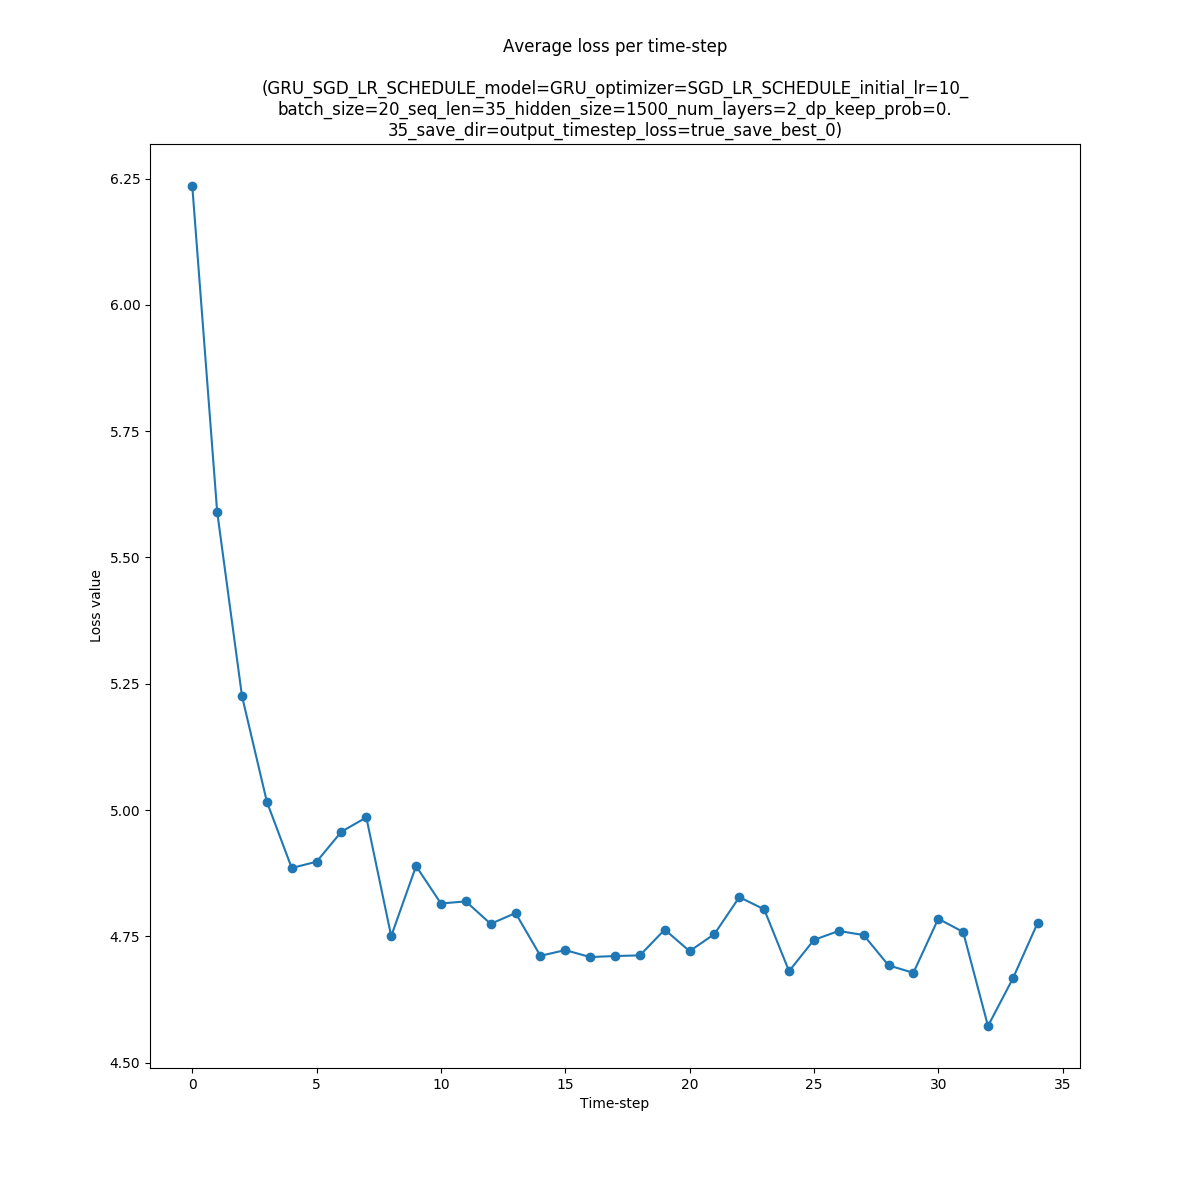
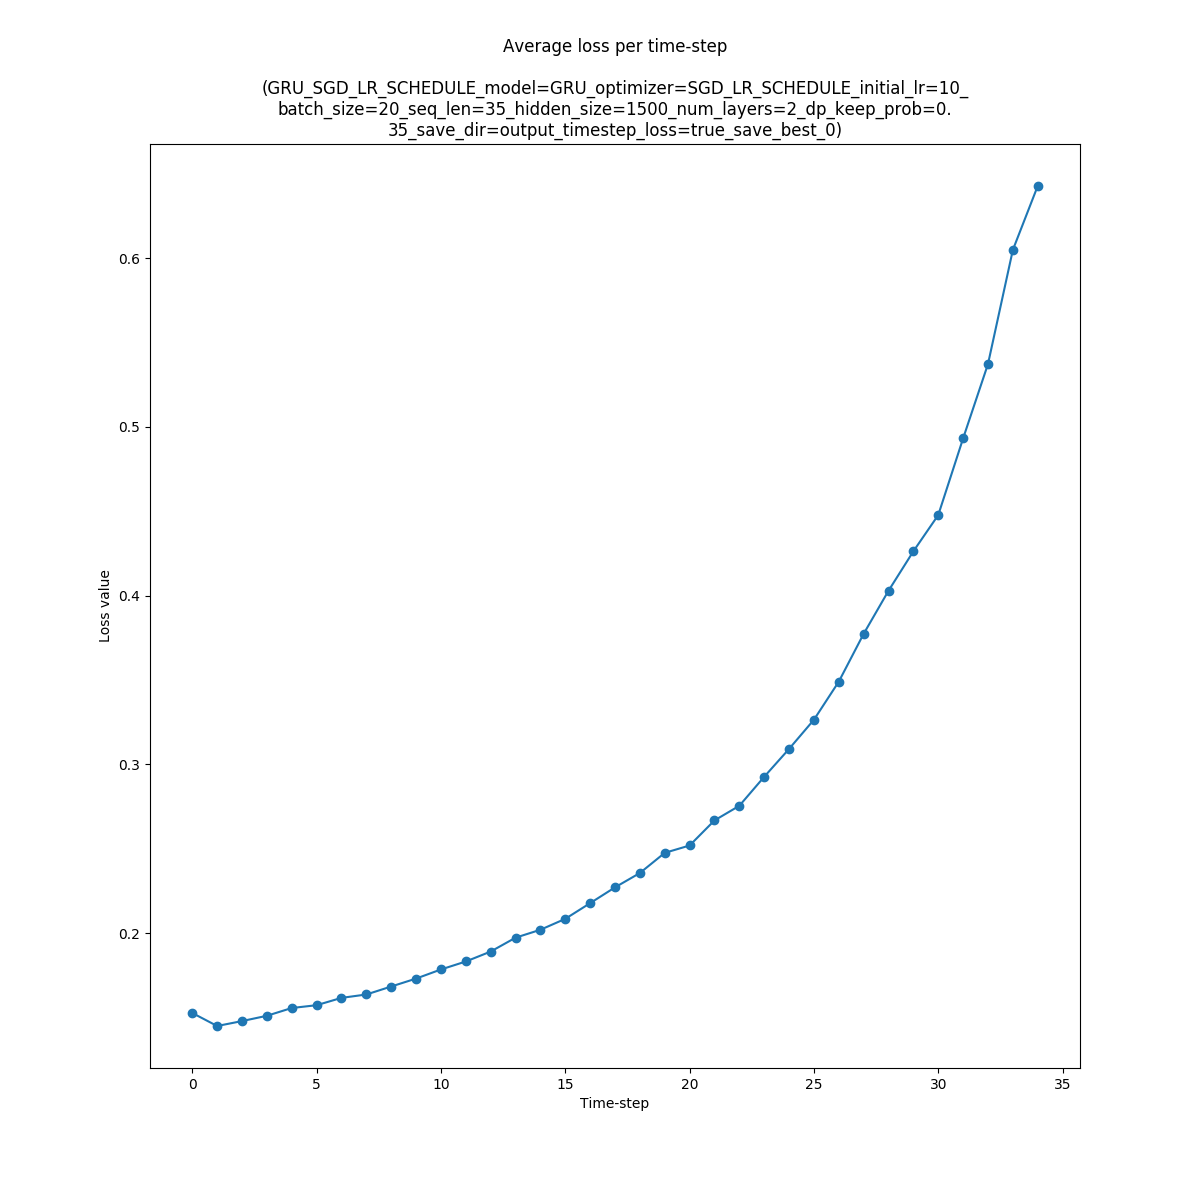
gradient plots

diff --git a/average_loss.py b/average_loss.py
@@ -106,7 +106,6 @@ parser.add_argument('--saved_models_dir', type=str,
                     help='Directory with saved models \
                          (best_params.pt and exp_config.txt must be present there). \
                          All its\' individual subdirectories will be iterated')
-
 parser.add_argument('--task', type=str,
                     help='5.1 or 5.2')
 
@@ -192,7 +191,6 @@ for dir_name in [x[0] for x in os.walk(saved_model_dir)]:
         """
         model.eval()
         seq_losses = np.zeros(model.seq_len)
-        minibatch_count = 0
         # LOOP THROUGH MINIBATCHES
         for step, (x, y) in enumerate(utils.ptb_iterator(data, model.batch_size, model.seq_len)):
             if step % 10 == 0:
@@ -211,6 +209,8 @@ for dir_name in [x[0] for x in os.walk(saved_model_dir)]:
                 inputs = torch.from_numpy(x.astype(np.int64)).transpose(0, 1).contiguous().to(device)  # .cuda()
                 model.zero_grad()
                 hidden = utils.repackage_hidden(hidden)
+                if task == '5.2':
+                    model.init_hidden_state_list()
                 outputs, hidden = model(inputs, hidden)
 
             targets = torch.from_numpy(y.astype(np.int64)).transpose(0, 1).contiguous().to(device)  # .cuda()
@@ -224,30 +224,34 @@ for dir_name in [x[0] for x in os.walk(saved_model_dir)]:
                     for output, target in zip(outputs, targets):
                         l = loss_fn(output, target)
                         step_seq_losses.append(l.data.item())
-                    minibatch_count += 1
                     seq_losses = np.sum([seq_losses, np.array(step_seq_losses)], axis=0)
             elif task == '5.2':
-                model.init_hidden_state_list()
-                tt = torch.squeeze(targets.view(-1, model.batch_size * model.seq_len))
-                loss = loss_fn(outputs.contiguous().view(-1, model.vocab_size)[-1:], tt[-1:])
-                hiddens = model.hidden_stack[0].hiddens
-                ret = torch.autograd.grad(loss, hiddens)
-                print('ret:', [g.norm() for g in ret])
-                exit()
+                loss = loss_fn(outputs[-1], targets[-1])
+                tensors = []
+                for unit in model.hidden_stack:
+                    ret = torch.autograd.grad(loss, unit.hiddens, retain_graph=True)
+                    tensors.append([g for g in ret])
+                stacked = []
+                for i in range(len(tensors[0])):
+                    stacked.append(torch.stack([tensors[j][i] for j in range(len(tensors))]))
+                ts_grads = [s.norm() for s in stacked]
+                print('norms: ', ts_grads)
+                ts_path = os.path.join(args['experiment_path'], 'timestep_grads.npy')
+                print('\nDONE\n\nSaving timestep_grads to ' + ts_path)
+                np.save(ts_path, ts_grads)
+                break
 
-        return seq_losses / minibatch_count
+        if task == '5.1':
+            seq_loss = seq_losses / (step + 1)
+            log_str = '\nseq_losses (len={}, sum={}): {}'.format(len(seq_loss), sum(seq_loss), seq_loss)
+            print(log_str)
 
+            sl_path = os.path.join(args['experiment_path'], 'seq_loss.npy')
+            print('\nDONE\n\nSaving seq_loss to ' + sl_path)
+            np.save(sl_path, seq_loss)
 
-    print("\n########## Running Main Loop ##########################")
 
     # RUN MODEL ON VALIDATION DATA
-    seq_loss = run_epoch(model, valid_data)
+    run_epoch(model, valid_data)
 
-    # LOC RESULTS
-    log_str = '\nseq_losses (len={}, sum={}): {}'.format(len(seq_loss), sum(seq_loss), seq_loss)
-    print(log_str)
-
-    sl_path = os.path.join(args['experiment_path'], 'seq_loss.npy')
-    print('\nDONE\n\nSaving seq_loss to ' + sl_path)
-    np.save(sl_path, seq_loss)
 

diff --git a/plot_timestep_grads.py b/plot_timestep_grads.py
@@ -1,0 +1,30 @@
+import argparse
+import matplotlib.pyplot as plt
+import numpy as np
+import os
+import utils
+from sklearn.preprocessing import minmax_scale
+
+parser = argparse.ArgumentParser(description='PyTorch Penn Treebank Language Modeling')
+
+parser.add_argument('--saved_models_dir', type=str,
+                    help='Directory with saved models \
+                         (best_params.pt and exp_config.txt must be present there). \
+                         All its\' individual subdirectories will be iterated')
+
+saved_model_dir = parser.parse_args().saved_models_dir
+plt.figure()#(figsize=(12, 12))
+for dir_name in [x[0] for x in os.walk(saved_model_dir)]:
+    if dir_name == saved_model_dir:
+        continue
+    args = utils.load_model_config(dir_name)
+    x_raw = np.load(os.path.join(dir_name, 'timestep_grads.npy'))
+    x = minmax_scale(x_raw)
+    plt.plot(x, marker='o', label=args['model'])
+    plt.title('{}'.format('Final time-step loss gradient wrt hidden states'))
+
+plt.xlabel("Hidden state (concatenated)")
+plt.ylabel("Rescaled gradient norm")
+plt.legend()
+plt.savefig('{}/average_loss.png'.format(dir_name))
+plt.show()

diff --git a/plot_average_loss.py b/plot_average_loss.py
@@ -8,7 +8,6 @@ from collections import defaultdict
 
 parser = argparse.ArgumentParser(description='PyTorch Penn Treebank Language Modeling')
 
-# Arguments you may need to set to run different experiments in 4.1 & 4.2.
 parser.add_argument('--saved_models_dir', type=str,
                     help='Directory with saved models \
                          (best_params.pt and exp_config.txt must be present there). \
@@ -22,15 +21,7 @@ for dir_name in [x[0] for x in os.walk(saved_model_dir)]:
     x = np.load(os.path.join(dir_name, 'seq_loss.npy'))
     plt.figure(figsize=(12, 12))
     avgs = defaultdict(list)
-    #for idx, val in enumerate(x):
-    #    avgs[idx % args['seq_len']].append(val)
-    #l = []
-    #for idx in range(args['seq_len']):
-    #    l.append(np.mean(avgs[idx]))
-    #print('l:', l)
-    #print('sum:', sum(l))
-    l = x
-    plt.plot(l, marker='o')
+    plt.plot(x, marker='o')
     plt.title('{}\n\n({})'.format('Average loss per time-step', "\n".join(wrap(args['name']))))
     plt.xlabel("Time-step")
     plt.ylabel("Loss value")

diff --git a/models.py b/models.py
@@ -497,7 +497,7 @@ class GRU(nn.Module):  # Implement a stacked GRU RNN
             output, hidden = self.generate_batch(inputs, hidden, temperature)
             samples.append(output)
             inputs = output
-        return torch.stack(samples) # shape (generated_seq_len, batch_size)
+        return torch.stack(samples)  # shape (generated_seq_len, batch_size)
 
     def init_hidden_state_list(self):
         for unit in self.hidden_stack:
